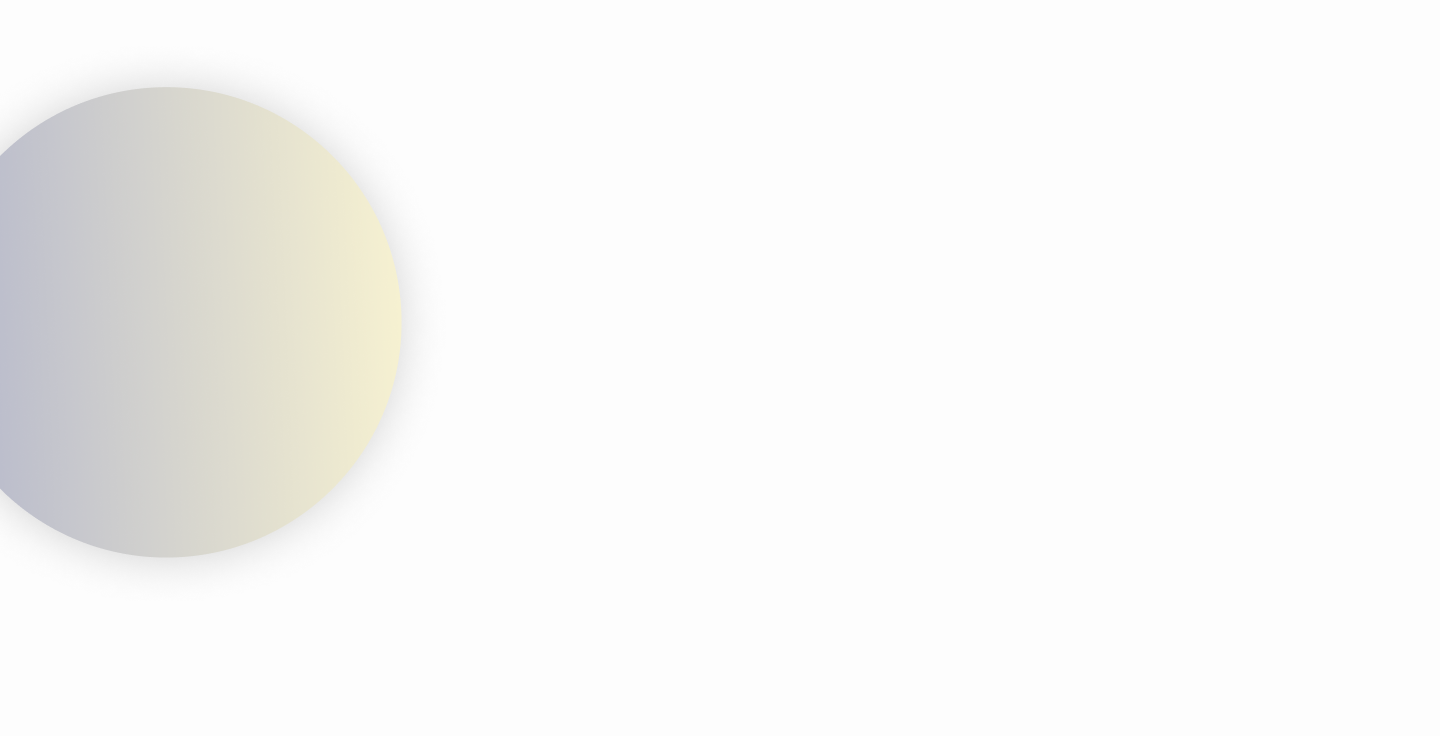
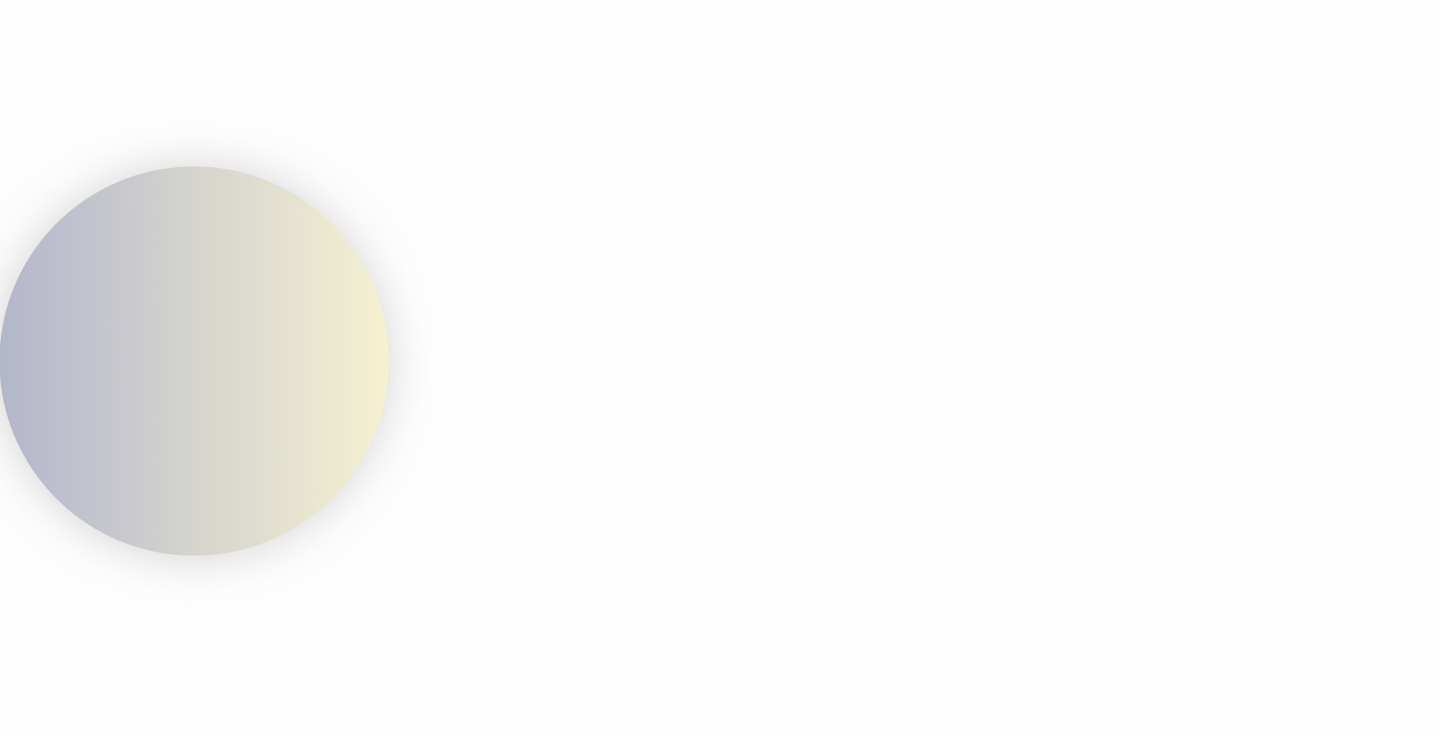
added changes

diff --git a/src/app/components/pagecomponents/Shared/styles/mainheadingsection.css b/src/app/components/pagecomponents/Shared/styles/mainheadingsection.css
@@ -339,7 +339,7 @@
     justify-content: center;
     align-items: center;
     background-image: var(--bg-768);
-    height: 100vh;
+    height: auto;
   }
 
   .mainheadingsection-container {
@@ -396,7 +396,7 @@
     justify-content: center;
     align-items: center;
     background-image: var(--bg-1024);
-    height: 100vh;
+    height: auto;
   }
 
   .mainheadingsection-container {
@@ -482,6 +482,12 @@
 
 /* Ultra-wide screens (>= 1600px) */
 @media (min-width: 1920px) {
+  .mainheadingsection-wrapper {
+    width: 100%;
+    height: auto;
+    padding-top: 4rem;
+    padding-bottom: 8rem;
+  }
   .mainheadingsection-wrapper {
     background-image: var(--bg-1920);
   }

diff --git a/src/app/components/pagecomponents/homepagecomponents/styles/expertisecollection.css b/src/app/components/pagecomponents/homepagecomponents/styles/expertisecollection.css
@@ -35,11 +35,13 @@
 .expertisecard-card-collection-first-text {
   font-size: 24px;
   font-weight: 400;
+  color: var(--text-color);
 }
 
 .expertisecard-card-collection-second-text {
   font-size: 20px;
   font-weight: 300;
+  color: var(--text-color);
 }
 
 .expertisecard-card-collection-middlesection-container {
@@ -87,6 +89,11 @@
   border: 1px solid var(--text-color);
   /* border-top-left-radius: 15px; */
   border-radius: 55px;
+  color: var(--text-color);
+}
+
+.expertisecard-card-collection-bottomsection-button:hover {
+  background-color: var(--light-orange);
 }
 
 .expertisecard-card-collection-bottom-text {

diff --git a/src/app/components/layoutcomponents/header/styles/header.css b/src/app/components/layoutcomponents/header/styles/header.css
@@ -52,14 +52,14 @@
   font-size: 12px;
   cursor: pointer;
   font-weight: 700; /* Normal weight */
-  color: black; /* Initial color */
+  color: var(--text-color); /* Initial color */
   text-decoration: none;
   transition: color 0.3s ease, font-weight 0.3s ease; /* Smooth transition */
 }
 
 .header-nobackground-button,
 .header-nobackground-button:visited {
-  color: black !important; /* Retain the original color */
+  color: var(--text-color) !important; /* Retain the original color */
   text-decoration: none !important; /* Ensure no underline */
 }
 
